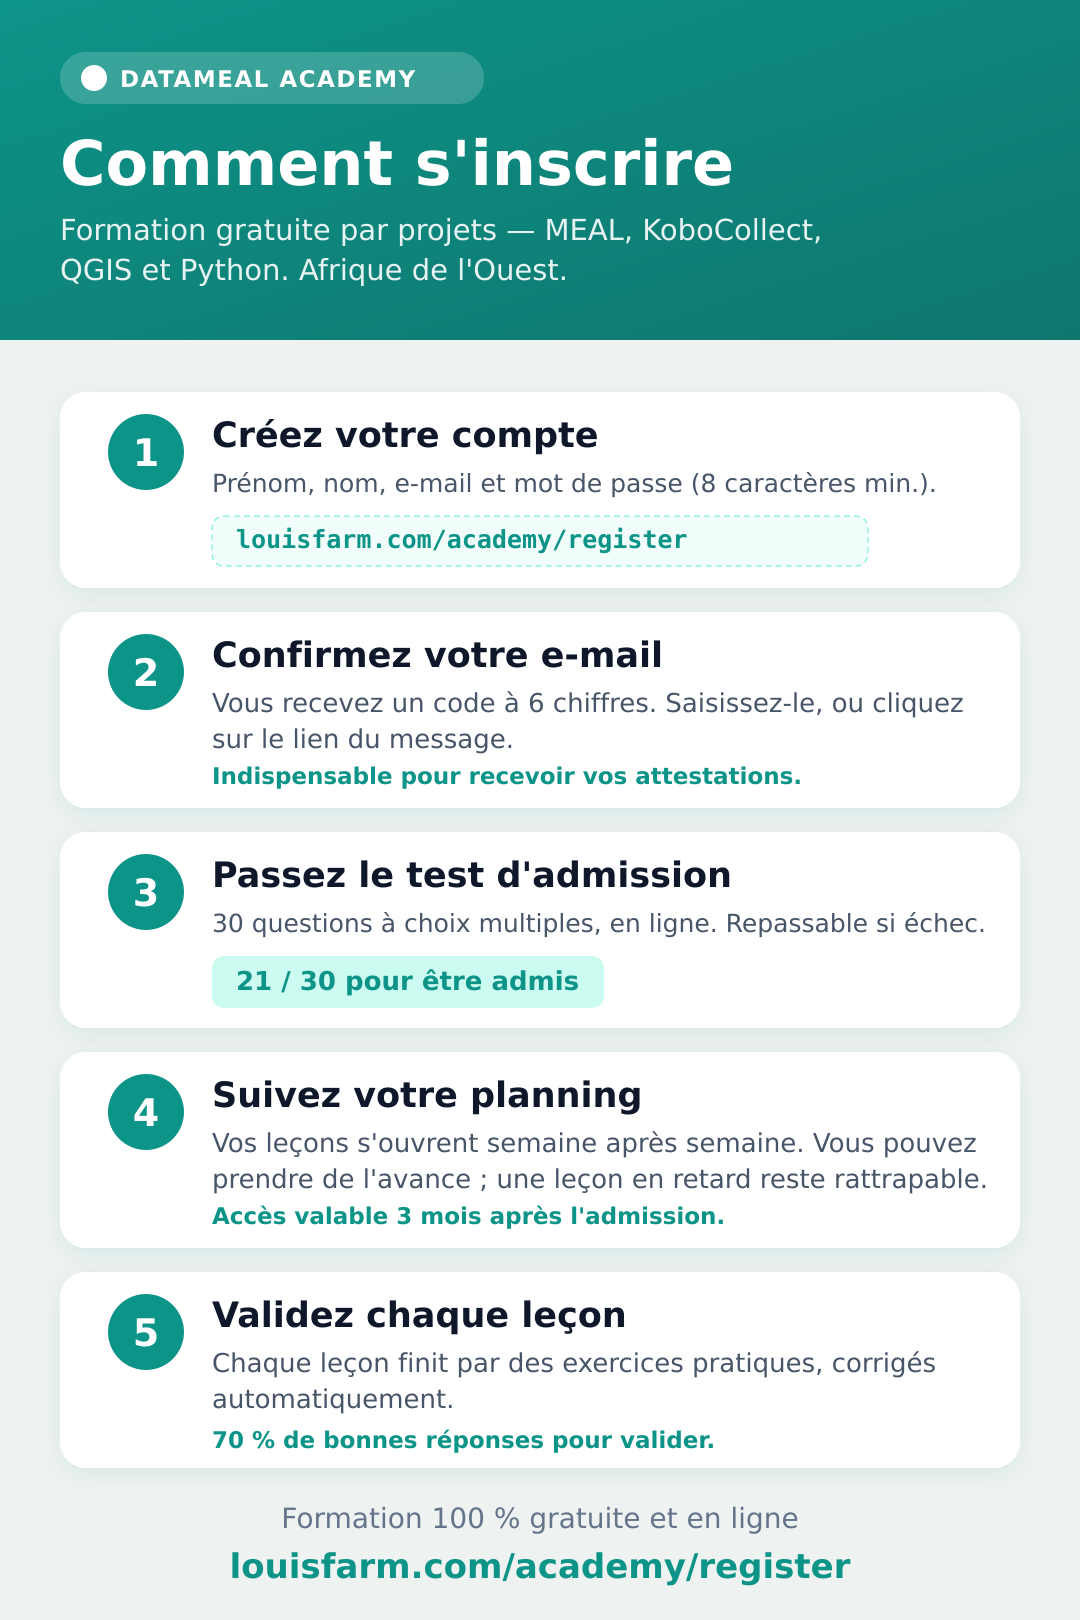
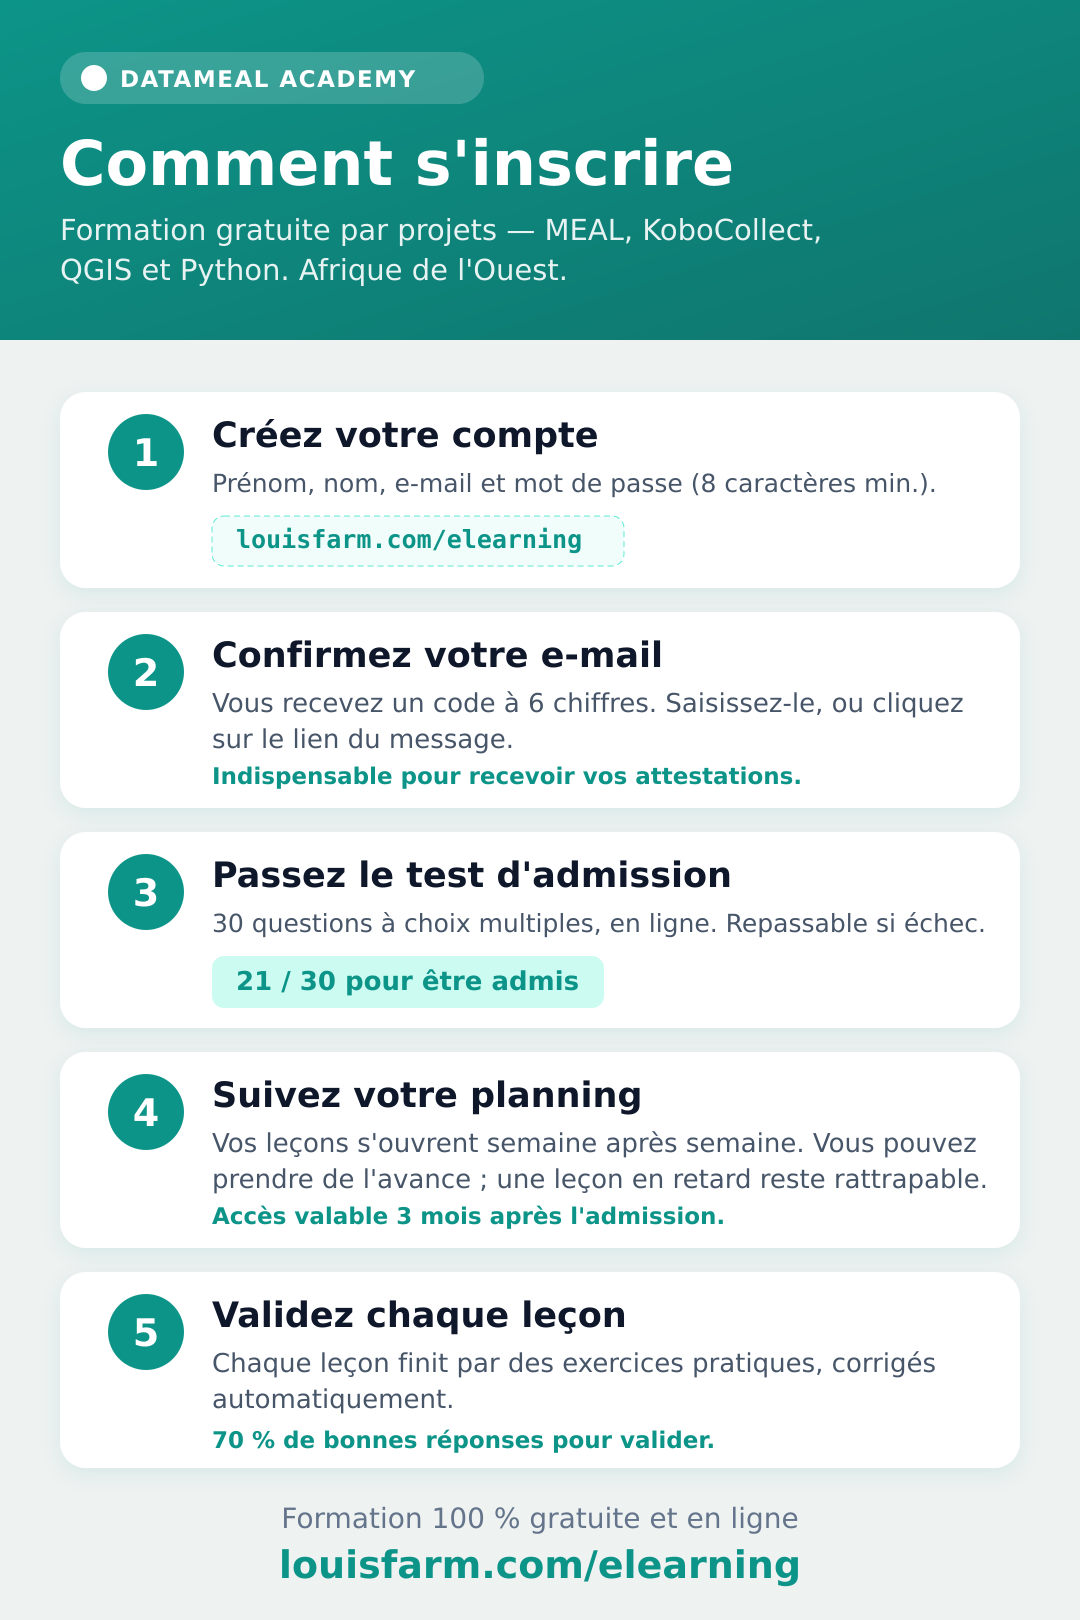
fix(design): l'affiche pointe vers /elearning, la vraie porte d'entrée
L'affiche renvoyait vers /academy/register. C'est l'écran suivant, pas le point
d'entrée : la page publique du parcours est /elearning — celle du test d'aptitude, d'où
part le bouton « Créer un compte » et où le formulaire d'inscription redirige lui-même
une fois le compte ouvert.

Les deux occurrences sont corrigées (encadré de l'étape 1 et pied de l'affiche), le
cadre pointillé resserré à la largeur de la nouvelle adresse, plus courte, et l'adresse
du pied agrandie de 34 à 38 px puisqu'elle tient désormais largement.

design/README.md note la distinction pour qu'elle ne soit pas défaite plus tard, et
ajoute la route à la table des valeurs à tenir à jour.

Rendu relu à l'écran : rien ne déborde, les accents passent.

Claude-Session: https://claude.ai/code/session_012JqNzKBKwgC2mK9zU8Rsoj

Changed region(s): [[0.2139, 0.9568, 0.7944, 0.9877], [0.4278, 0.3086, 0.6417, 0.3395]]

diff --git a/design/README.md b/design/README.md
@@ -7,7 +7,12 @@ jamais retouché à la main : c'est le SVG qui fait foi.
 
 Affiche en 5 étapes destinée aux futurs étudiants (WhatsApp, réseaux sociaux, impression A4).
 Publiée en PNG dans `client/public/academy/inscription.png`, donc accessible à l'adresse
-<https://louisfarm.com/academy/inscription.png>.
+<https://www.louisfarm.com/academy/inscription.png> (le `www.` compte : sans lui, Vercel
+renvoie un 307).
+
+L'adresse imprimée SUR l'affiche est `louisfarm.com/elearning` — la page publique du test
+d'aptitude, porte d'entrée du parcours, d'où part le bouton « Créer un compte ». Ne pas la
+remplacer par `/academy/register`, qui est l'écran suivant et non le point d'entrée.
 
 ### Régénérer le PNG
 
@@ -35,6 +40,7 @@ Le visuel affiche des seuils qui vivent dans le code. Si l'un change, corriger l
 | Accès valable 3 mois | `ADMISSION_MONTHS` dans `api/index.ts` |
 | 70 % de bonnes réponses | `EXERCISE_PASS_PCT` dans `shared/exercises.ts` |
 | 8 caractères minimum | validation du mot de passe, `client/src/pages/academy/register.tsx` |
+| louisfarm.com/elearning | route publique `/elearning` dans `client/src/App.tsx` |
 
 ### Vérifier après modification
 
